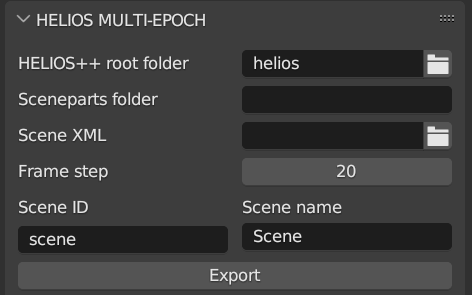
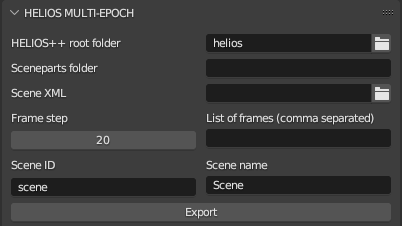
update README

diff --git a/README.md b/README.md
@@ -82,11 +82,11 @@ Now you are ready for exporting the scene. Go to the HELIOS MULTI-EPOCH menu in 
 
 Select your HELIOS++ root folder and the name of your sceneparts subfolder. This name will automatically be appended to `<your-helios-root_dir>/data/sceneparts`. The add-on will export the meshes in your Blender scene to this folder in OBJ format. Furthermore, browse for the XML file to which the dynamic scene shall be written. The current frame number will be appended to this XML as suffix, i.e., *data/scenes/my_scene/scene_001*, *data/scenes/my_scene/scene_021*, *data/scenes/my_scene/scene_041*, etc.
 
-Select a frame step, which determines the interval, at which to export frames.
+Select a frame step that defines the interval at which frames are exported, or specify a list of frames. The list of frames should be a comma-separated string, e.g., `9, 15, 34, 90, 92, 105`. If a list of frames is provided, the frame step will be ignored. 
 
 Lastly, define an ID and name for your scene, which will be written into the scene XML file.
 
-When you are ready, hit "Export" and wait for the export to complete.
+When you are ready, click "Export" and wait for the export to complete.
 
 You can now use the generated scene XMLs to run HELIOS++ simulations. Create a separate [survey XML](https://github.com/3dgeo-heidelberg/helios/wiki/Survey) for each epoch to create a time series of simulated laser scanning survey over the dynamic scenes. Execute the surveys with HELIOS++.
 
